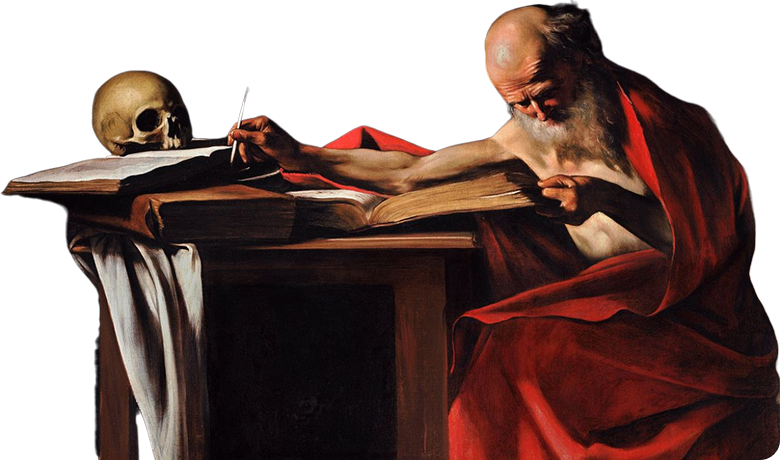
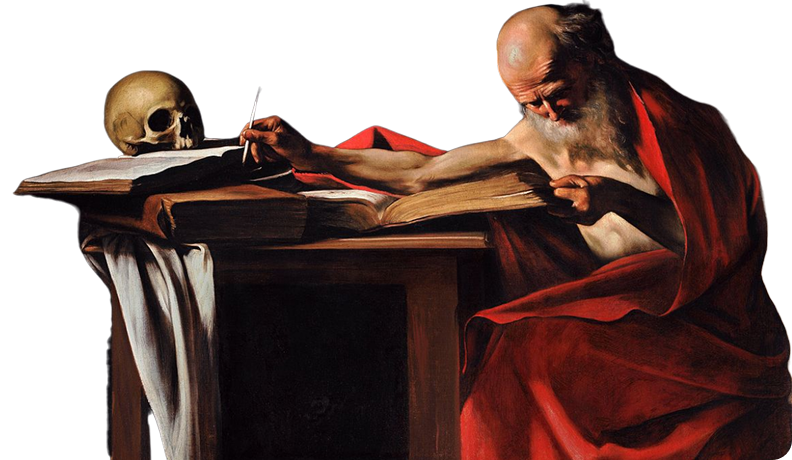
Adapting faq

diff --git a/faq.html b/faq.html
@@ -10,37 +10,37 @@
         <header class="header"></header>
         <main>
             <section class="faq">
-                <p class="faq__little-question">А говорили: “у меня есть маааленький вопросик”</p>
+                <h2 class="faq__little-question">А говорили: “у меня есть маааленький вопросик”</h2>
                 <div class="faq__question">
                     <p>Для кого курсы?</p>
                     <div class="faq__button"></div>
                 </div>
-                <p class="faq__answer"><br><br>Недавно я прошла курс по искусствоведению, посвящённый искусству и пространству. Он оказался очень познавательным. Я узнала много нового об истории искусства, его направлениях и стилях, а также о том, как пространство влияет на восприятие  произведений искусства. Недавно я прошла курс по искусствоведению, посвящённый искусству и пространству. Он оказался очень познавательным. Я узнала много нового об истории искусства, его направлениях и стилях, а также о том, как пространство влияет на восприятие  произведений искусства.<br><br><br></p>
+                <p class="faq__answer">Недавно я прошла курс по искусствоведению, посвящённый искусству и пространству. Он оказался очень познавательным. Я узнала много нового об истории искусства, его направлениях и стилях, а также о том, как пространство влияет на восприятие  произведений искусства. Недавно я прошла курс по искусствоведению, посвящённый искусству и пространству. Он оказался очень познавательным. Я узнала много нового об истории искусства, его направлениях и стилях, а также о том, как пространство влияет на восприятие  произведений искусства.</p>
                 <div class="faq__question">
                     <p>Вопрос?</p>
                     <div class="faq__button"></div>
                 </div>
-                <p class="faq__answer"><br><br>Недавно я прошла курс по искусствоведению, посвящённый искусству и пространству. Он оказался очень познавательным. Я узнала много нового об истории искусства, его направлениях и стилях, а также о том, как пространство влияет на восприятие  произведений искусства. Недавно я прошла курс по искусствоведению, посвящённый искусству и пространству. Он оказался очень познавательным. Я узнала много нового об истории искусства, его направлениях и стилях, а также о том, как пространство влияет на восприятие  произведений искусства.<br><br><br></p>
+                <p class="faq__answer">Недавно я прошла курс по искусствоведению, посвящённый искусству и пространству. Он оказался очень познавательным. Я узнала много нового об истории искусства, его направлениях и стилях, а также о том, как пространство влияет на восприятие  произведений искусства. Недавно я прошла курс по искусствоведению, посвящённый искусству и пространству. Он оказался очень познавательным. Я узнала много нового об истории искусства, его направлениях и стилях, а также о том, как пространство влияет на восприятие  произведений искусства.</p>
                 <div class="faq__question">
                     <p>Тут еще один?</p>
                     <div class="faq__button"></div>
                 </div>
-                <p class="faq__answer"><br><br>Недавно я прошла курс по искусствоведению, посвящённый искусству и пространству. Он оказался очень познавательным. Я узнала много нового об истории искусства, его направлениях и стилях, а также о том, как пространство влияет на восприятие  произведений искусства. Недавно я прошла курс по искусствоведению, посвящённый искусству и пространству. Он оказался очень познавательным. Я узнала много нового об истории искусства, его направлениях и стилях, а также о том, как пространство влияет на восприятие  произведений искусства.<br><br><br></p>
+                <p class="faq__answer">Недавно я прошла курс по искусствоведению, посвящённый искусству и пространству. Он оказался очень познавательным. Я узнала много нового об истории искусства, его направлениях и стилях, а также о том, как пространство влияет на восприятие  произведений искусства. Недавно я прошла курс по искусствоведению, посвящённый искусству и пространству. Он оказался очень познавательным. Я узнала много нового об истории искусства, его направлениях и стилях, а также о том, как пространство влияет на восприятие  произведений искусства.</p>
                 <div class="faq__question">
                     <p>И еще один вопрос?</p>
                     <div class="faq__button"></div>
                 </div>
-                <p class="faq__answer"><br><br>Недавно я прошла курс по искусствоведению, посвящённый искусству и пространству. Он оказался очень познавательным. Я узнала много нового об истории искусства, его направлениях и стилях, а также о том, как пространство влияет на восприятие  произведений искусства. Недавно я прошла курс по искусствоведению, посвящённый искусству и пространству. Он оказался очень познавательным. Я узнала много нового об истории искусства, его направлениях и стилях, а также о том, как пространство влияет на восприятие  произведений искусства.<br><br><br></p>
+                <p class="faq__answer">Недавно я прошла курс по искусствоведению, посвящённый искусству и пространству. Он оказался очень познавательным. Я узнала много нового об истории искусства, его направлениях и стилях, а также о том, как пространство влияет на восприятие  произведений искусства. Недавно я прошла курс по искусствоведению, посвящённый искусству и пространству. Он оказался очень познавательным. Я узнала много нового об истории искусства, его направлениях и стилях, а также о том, как пространство влияет на восприятие  произведений искусства.</p>
                 <div class="faq__question">
                     <p>Что еще хотят люди?</p>
                     <div class="faq__button"></div>
                 </div>
-                <p class="faq__answer"><br><br>Недавно я прошла курс по искусствоведению, посвящённый искусству и пространству. Он оказался очень познавательным. Я узнала много нового об истории искусства, его направлениях и стилях, а также о том, как пространство влияет на восприятие  произведений искусства. Недавно я прошла курс по искусствоведению, посвящённый искусству и пространству. Он оказался очень познавательным. Я узнала много нового об истории искусства, его направлениях и стилях, а также о том, как пространство влияет на восприятие  произведений искусства.<br><br><br></p>
+                <p class="faq__answer">Недавно я прошла курс по искусствоведению, посвящённый искусству и пространству. Он оказался очень познавательным. Я узнала много нового об истории искусства, его направлениях и стилях, а также о том, как пространство влияет на восприятие  произведений искусства. Недавно я прошла курс по искусствоведению, посвящённый искусству и пространству. Он оказался очень познавательным. Я узнала много нового об истории искусства, его направлениях и стилях, а также о том, как пространство влияет на восприятие  произведений искусства.</p>
                 <div class="faq__question">
                     <p>Последний вопросик?</p>
                     <div class="faq__button"></div>
                 </div>
-                <p class="faq__answer"><br><br>Недавно я прошла курс по искусствоведению, посвящённый искусству и пространству. Он оказался очень познавательным. Я узнала много нового об истории искусства, его направлениях и стилях, а также о том, как пространство влияет на восприятие  произведений искусства. Недавно я прошла курс по искусствоведению, посвящённый искусству и пространству. Он оказался очень познавательным. Я узнала много нового об истории искусства, его направлениях и стилях, а также о том, как пространство влияет на восприятие  произведений искусства.<br><br><br></p>
+                <p class="faq__answer">Недавно я прошла курс по искусствоведению, посвящённый искусству и пространству. Он оказался очень познавательным. Я узнала много нового об истории искусства, его направлениях и стилях, а также о том, как пространство влияет на восприятие  произведений искусства. Недавно я прошла курс по искусствоведению, посвящённый искусству и пространству. Он оказался очень познавательным. Я узнала много нового об истории искусства, его направлениях и стилях, а также о том, как пространство влияет на восприятие  произведений искусства.</p>
             </section>
             <section class="contact-us">
                 <p class="contact-us__title">

diff --git a/css/style.css b/css/style.css
@@ -1359,8 +1359,8 @@ a {
     width: 340px;
     margin: 0 auto 32px auto;
     background-image: url("../img/illustrations/caravaggio.png"), url("../img/illustrations/faq.svg");
-    background-position: center 96px, left 88px;
-    background-size: contain, 205px;
+    background-position: -2px 96px, left 88px;
+    background-size: 337px, 205px;
     background-repeat: no-repeat;
 }
 .faq__little-question {
@@ -1399,6 +1399,7 @@ a {
 }
 .faq__question--opened {
     background-color: #ff6f61;
+    margin-bottom: 4px;
 }
 @keyframes rotate-button-open {
     from {transform: rotate(0deg)};
@@ -1432,29 +1433,99 @@ a {
     color: white;
     font-size: 12px;
     font-weight: 300;
-    background-color: #ff6f61;
+    background-color: #304c94;
     border-radius: 15px;
-    margin-top: 4px;
 }
 @keyframes open-answer {
-    from {max-height: 0vh};
-    to {max-height: 100vh};
+    from {
+        max-height: 0vh;
+        padding-top: 0px;
+        padding-bottom: 0px;
+    };
+    to {
+        max-height: 100vh;
+        padding-top: 32px;
+        padding-bottom: 32px;
+    };
 }
 @keyframes close-answer {
-    from {max-height: 100vh};
-    to {max-height: 0vh};
+    from {
+        max-height: 100vh;
+        padding-top: 32px;
+        padding-bottom: 32px;
+    };
+    to {
+        max-height: 0vh;
+        padding-top: 0px;
+        padding-bottom: 0px;
+    };
 }
 .faq__answer--opened {
     display: block;
+    background-color: #ff6f61;
     max-height: 100vh;
+    padding-top: 32px;
+    padding-bottom: 32px;
     animation-name: open-answer;
     animation-duration: 0.5s;
 }
 .faq__answer--closed {
     display: block;
     max-height: 0vh;
+    padding-top: 0px;
+    padding-bottom: 0px;
     animation-name: close-answer;
     animation-duration: 0.2s;
+}
+@media (min-width: 724px) {
+    .faq {
+        width: 707px;
+        background-position: -19px 144px, left 120px;
+        background-size: 716px, 448px;
+        margin-bottom: 64px;
+    }
+    .faq__little-question {
+        width: 391px;
+        height: 143.83px;
+        padding-top: 30px;
+        margin-bottom: 280.17px;
+        font-size: 20px;
+        font-weight: 500;
+    }
+    .faq__question {
+        height: 100px;
+        padding: 0 32px;
+        font-size: 32px;
+        font-weight: 600;
+        margin-top: 5px;
+    }
+    .faq__question--opened {
+        margin-bottom: 5px;
+    }
+    .faq__button {
+        width: 32px;
+        height: 32px;
+    }
+    .faq__answer {
+        font-size: 16px;
+    }
+}
+@media (min-width: 1417px) {
+    .faq {
+        width: 1400px;
+        background-position: right 66px, left 13px;
+        background-size: 792px, 732px;
+        padding-top: 314px;
+    }
+    .faq__little-question {
+        margin-bottom: 105px;
+        width: 300px;
+        height: 115px;
+        padding-top: 56px;
+        font-size: 16px;
+        background-image: url("../img/illustrations/to-ask-desktop.svg");
+        margin-left: 844px;
+    }
 }
 
 .not-found {
